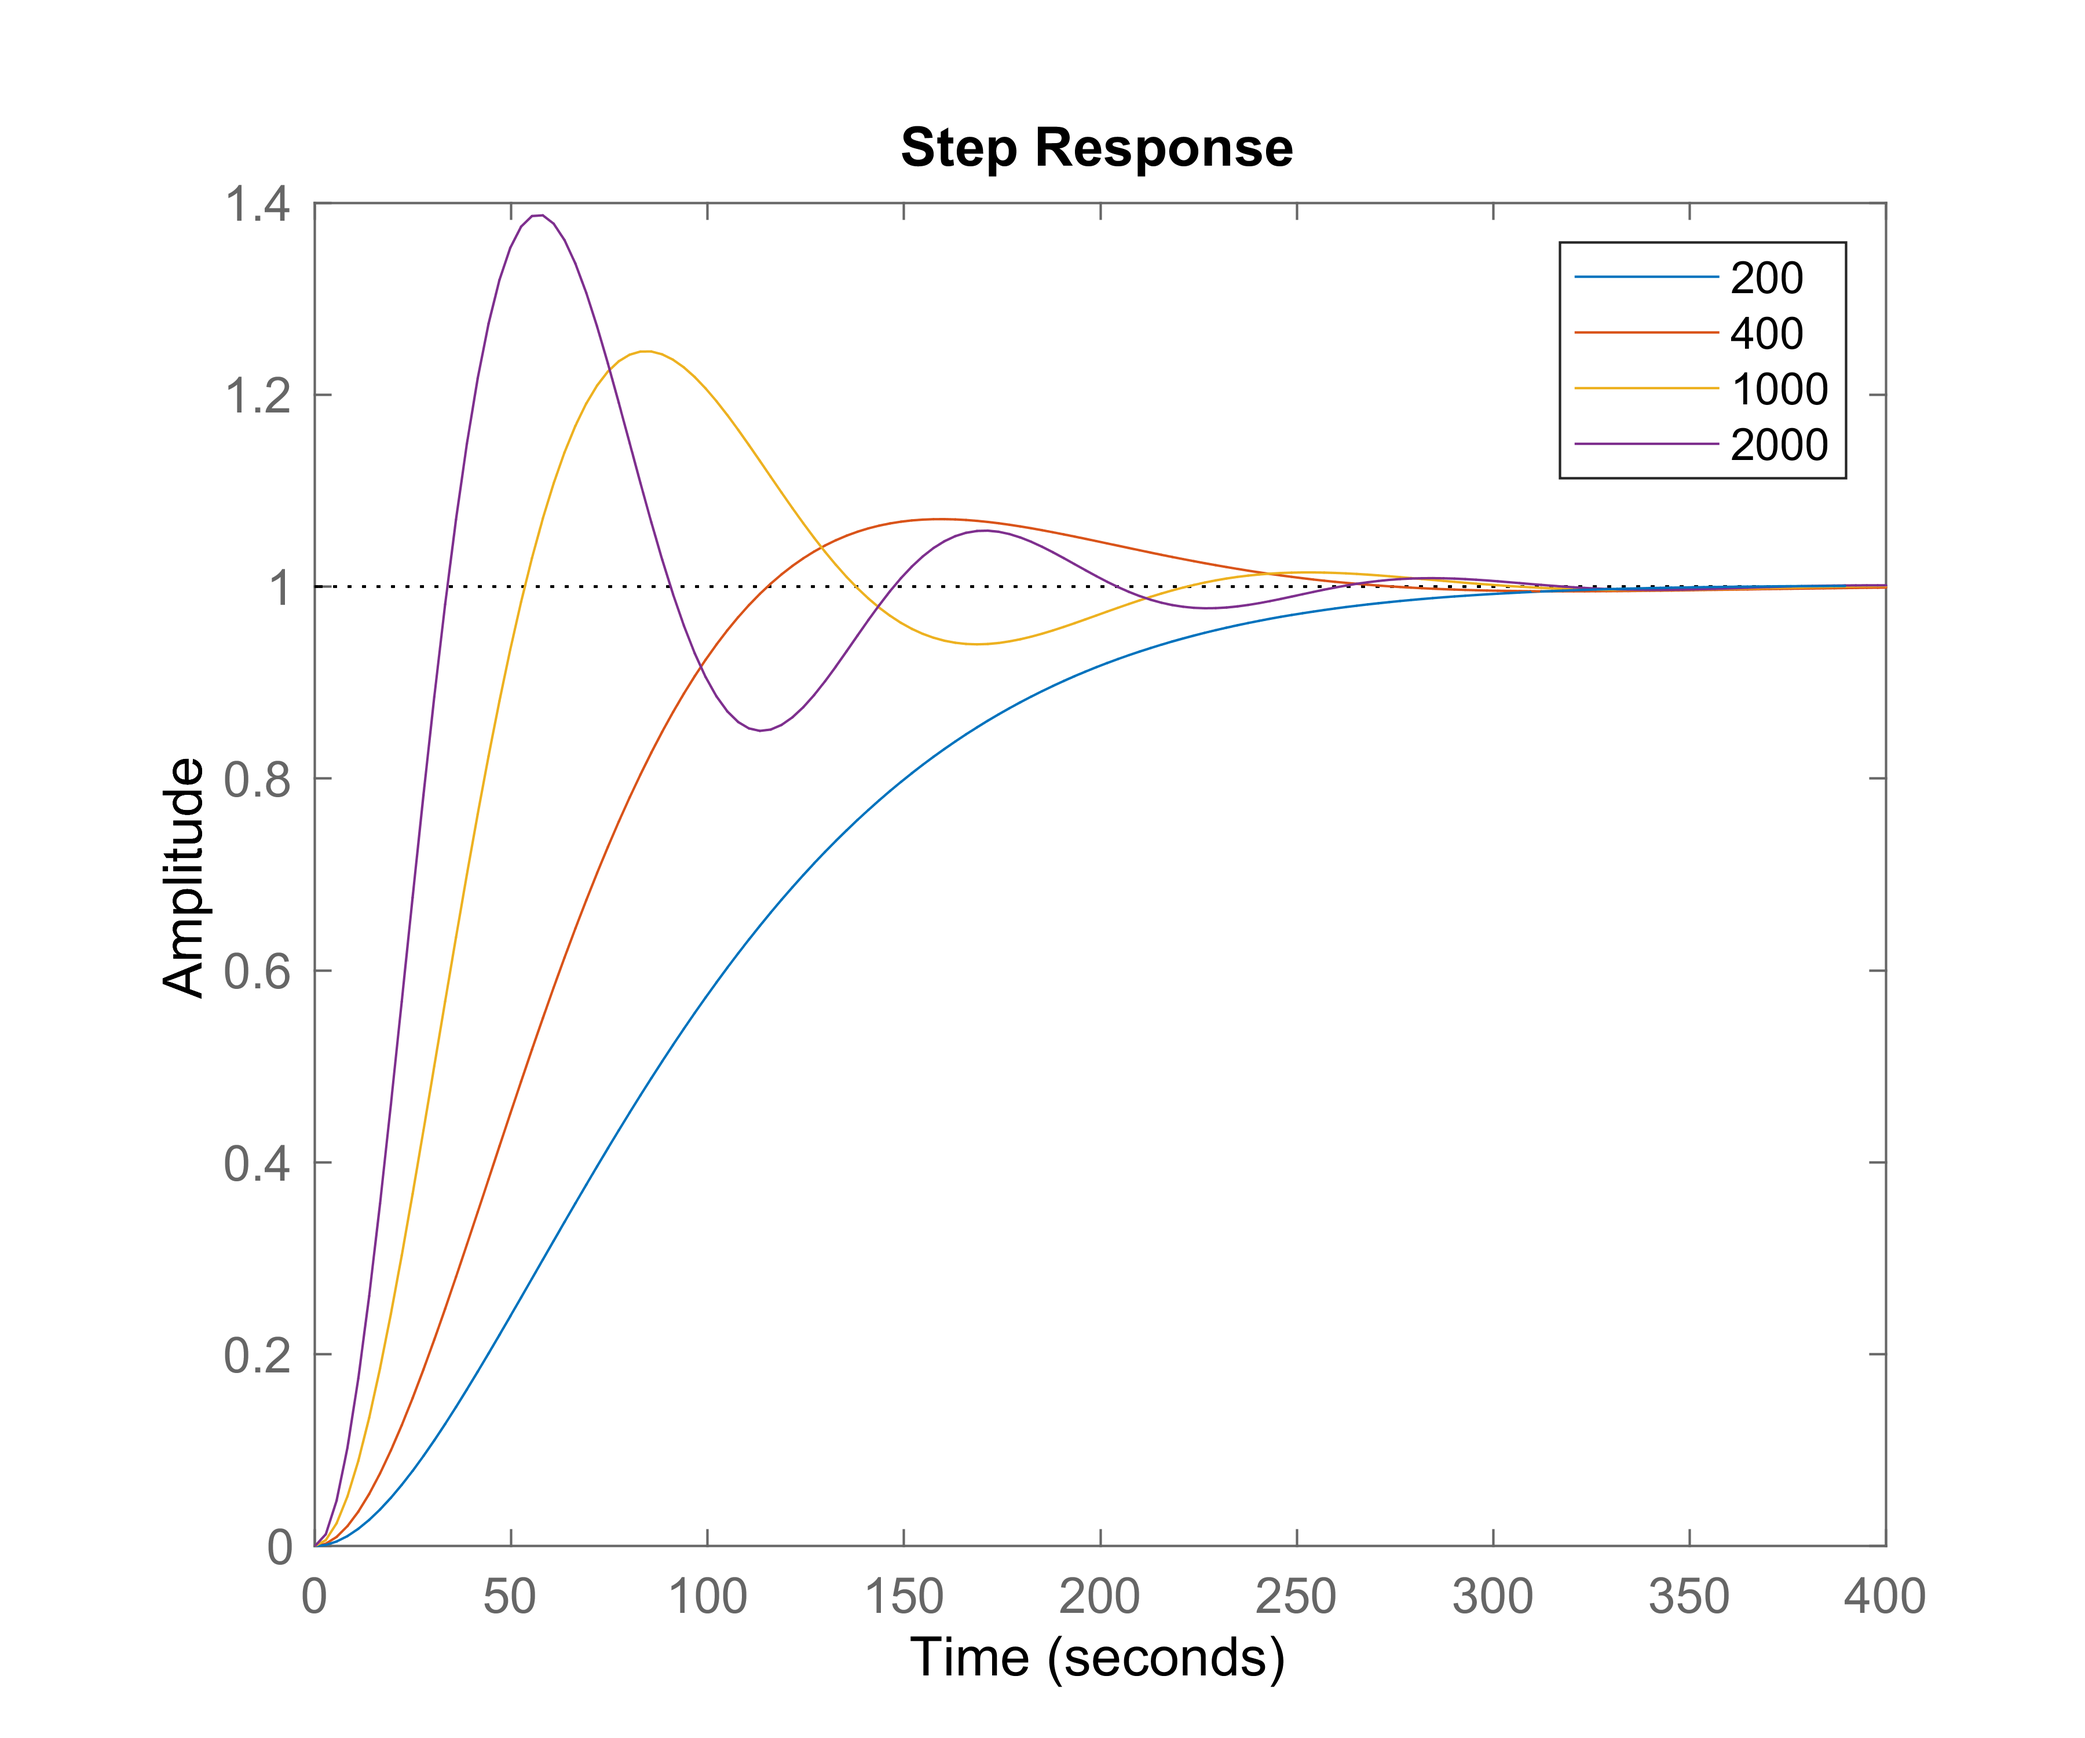
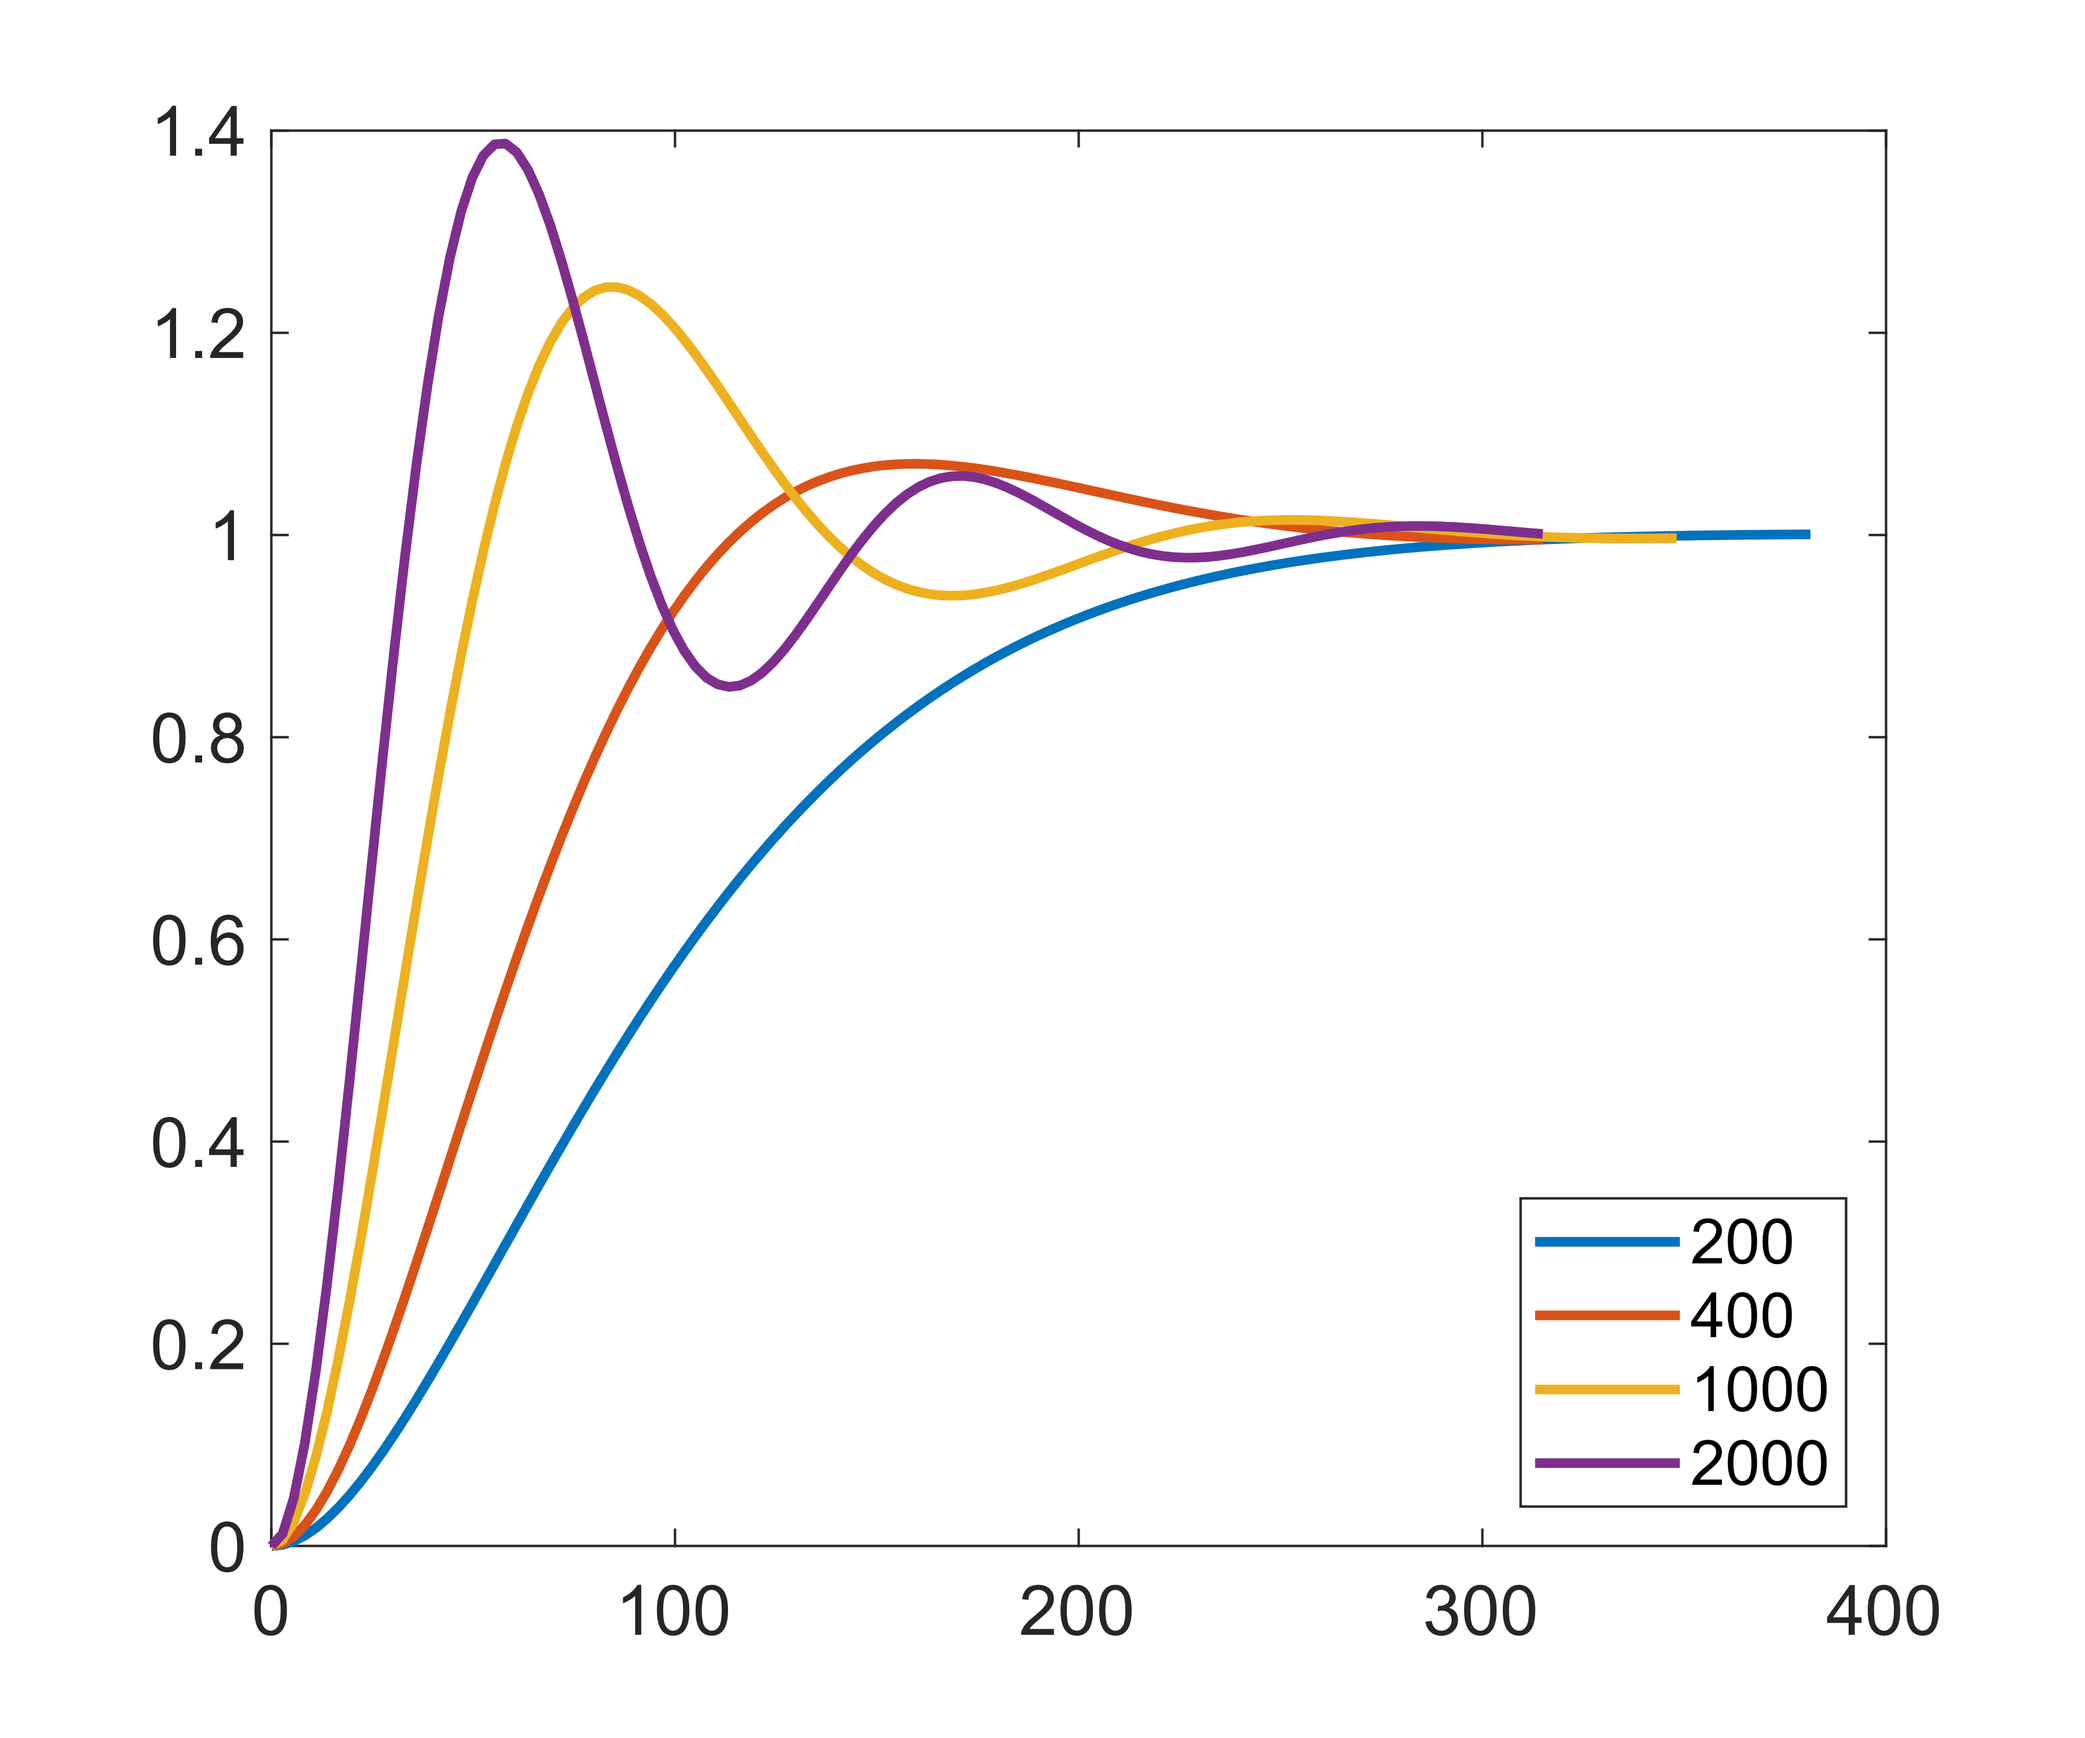
HW 3 finished

diff --git a/Homework3/SecondOrderSysID_P5.m b/Homework3/SecondOrderSysID_P5.m
@@ -1,0 +1,45 @@
+function SecondOrderSysID_P5()
+%% Base Model
+s = tf('s');
+G = 130 / (s^2 + 6*s + 100);
+
+[y,t] = step(G);
+S = stepinfo(y,t);
+
+plot(t,y,'LineWidth',2)
+set(gca,'FontSize',14)
+
+%% Single Noise Sample
+s = tf('s');
+G = 130 / (s^2 + 6*s + 100);
+
+[y,t] = step(G);
+y = y + .1*randn(size(y));
+S = stepinfo(y,t);
+
+plot(t,y,'LineWidth',2)
+set(gca,'FontSize',14)
+
+%% Averaging Noise
+s = tf('s');
+G = 130 / (s^2 + 6*s + 100);
+
+[y,t] = step(G);
+
+len = 100;
+ynoise = zeros(length(y(:,1)),len);
+for i = 1:len
+    ynoise(:,i) = y + .1*randn(size(y));
+end
+
+ymean = mean(ynoise,2);
+S = stepinfo(ymean,t);
+
+plot(t,ynoise,'LineWidth',2)
+set(gca,'FontSize',14)
+figure()
+plot(t,y,'r',t,ymean,'b','LineWidth',2)
+set(gca,'FontSize',14)
+legend('True','Averaged')
+
+end

diff --git a/Homework3/Robot_Arm_P3.m b/Homework3/Robot_Arm_P3.m
@@ -14,7 +14,8 @@ for ik = 1:length(k)
     
     ss_error = S.SettlingMax - fv;
     disp(ss_error)
-    step(G)
+    plot(t,y,'LineWidth',2)
+    set(gca,'FontSize',14)
     hold on
 end
 % legend('1','5','10','15','20')
@@ -36,7 +37,8 @@ S = stepinfo(y,t);
 ss_error = S.SettlingMax - fv;
 disp(ss_error)
 
-step(G)
+plot(t,y,'LineWidth',2)
+set(gca,'FontSize',14)
 hold on
 
 

diff --git a/Homework3/Satellite_Antenna_P2.m b/Homework3/Satellite_Antenna_P2.m
@@ -9,8 +9,10 @@ k = [200,400,1000,2000];
 
 for ik = 1:length(k)
     G = (k(ik)/J) / (s^2 + (B/J)*s + (k(ik)/J));
-    step(G)
+    [y,t] = step(G);
+    plot(t,y,'LineWidth',2)
     hold on
 end
-legend('200','400','1000','2000')
+set(gca,'FontSize',14)
+legend('200','400','1000','2000','Location','southeast')
 end

diff --git a/Homework3/PI_Control_P4.m b/Homework3/PI_Control_P4.m
@@ -1,11 +1,13 @@
 function PI_Control_P4()
 
 s = tf('s');
-k = 5;
+k = 1.996;
 ka = 2;
-ki = 5;
+ki = 3.26;
 a = 2;
 G = ((ka/(s+a))*k*(1+(ki/s))) / (2+(ki/s));
 
-step(G)
-end
+[y,t] = step(G);
+plot(t,y,'LineWidth',2)
+set(gca,'FontSize',14)
+end0
